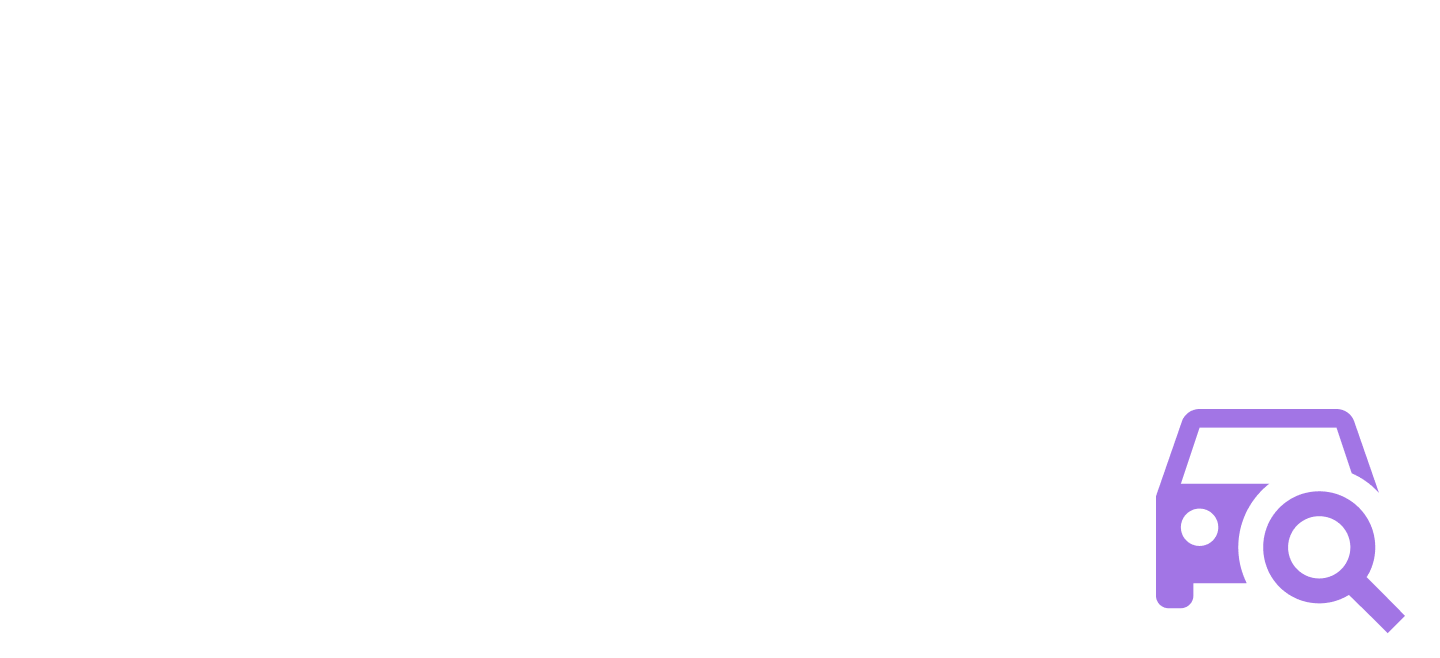
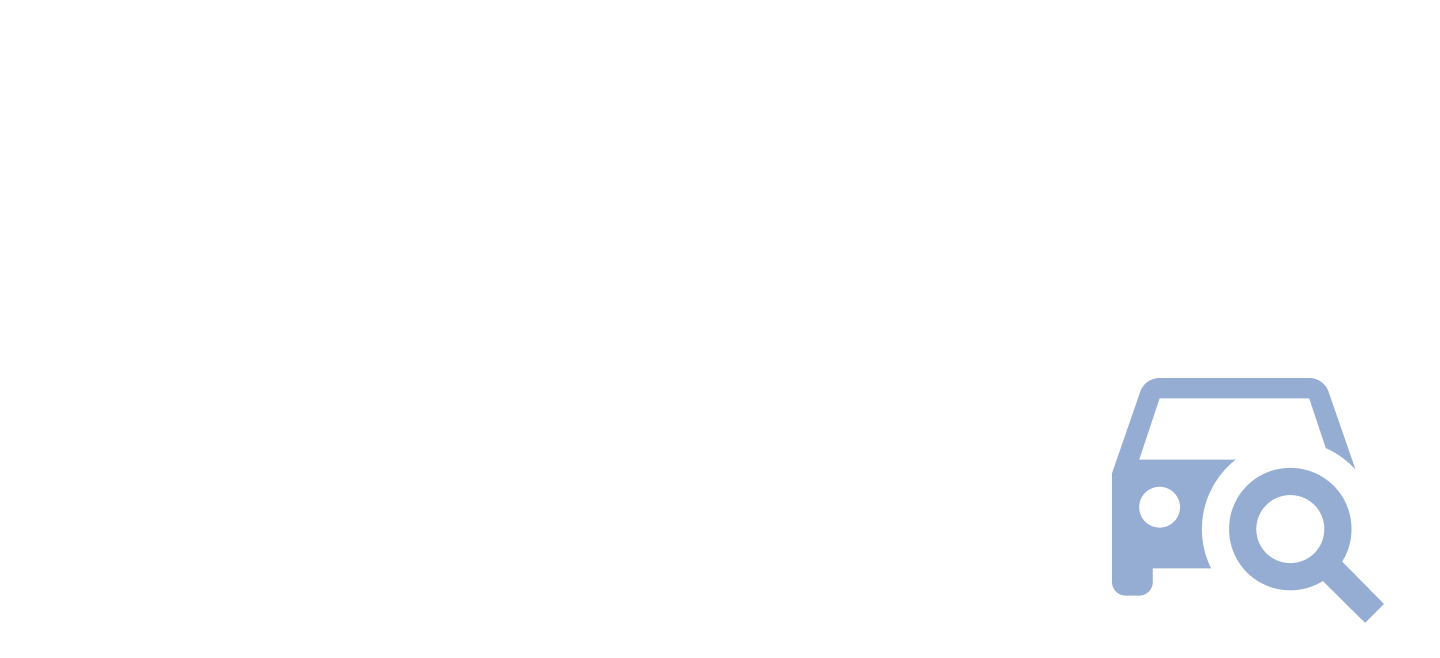
changes

Changed region(s): [[0.75, 0.5775, 0.9688, 0.9726]]

diff --git a/app/page.tsx b/app/page.tsx
@@ -561,10 +561,10 @@ function ParaWorks() {
         <div className="flex justify-center md:justify-end">
           <div className="relative w-48 h-48 sm:w-64 sm:h-64 md:w-[300px] md:h-[300px]">
             <Image
-              src="/logo-test1.png"
-              alt="Illustration"
+              src="/logo_try.svg"
+              alt="TryAutoQuote"
               fill
-              className="object-contain rounded-2xl"
+              className="object-contain"
             />
           </div>
         </div>